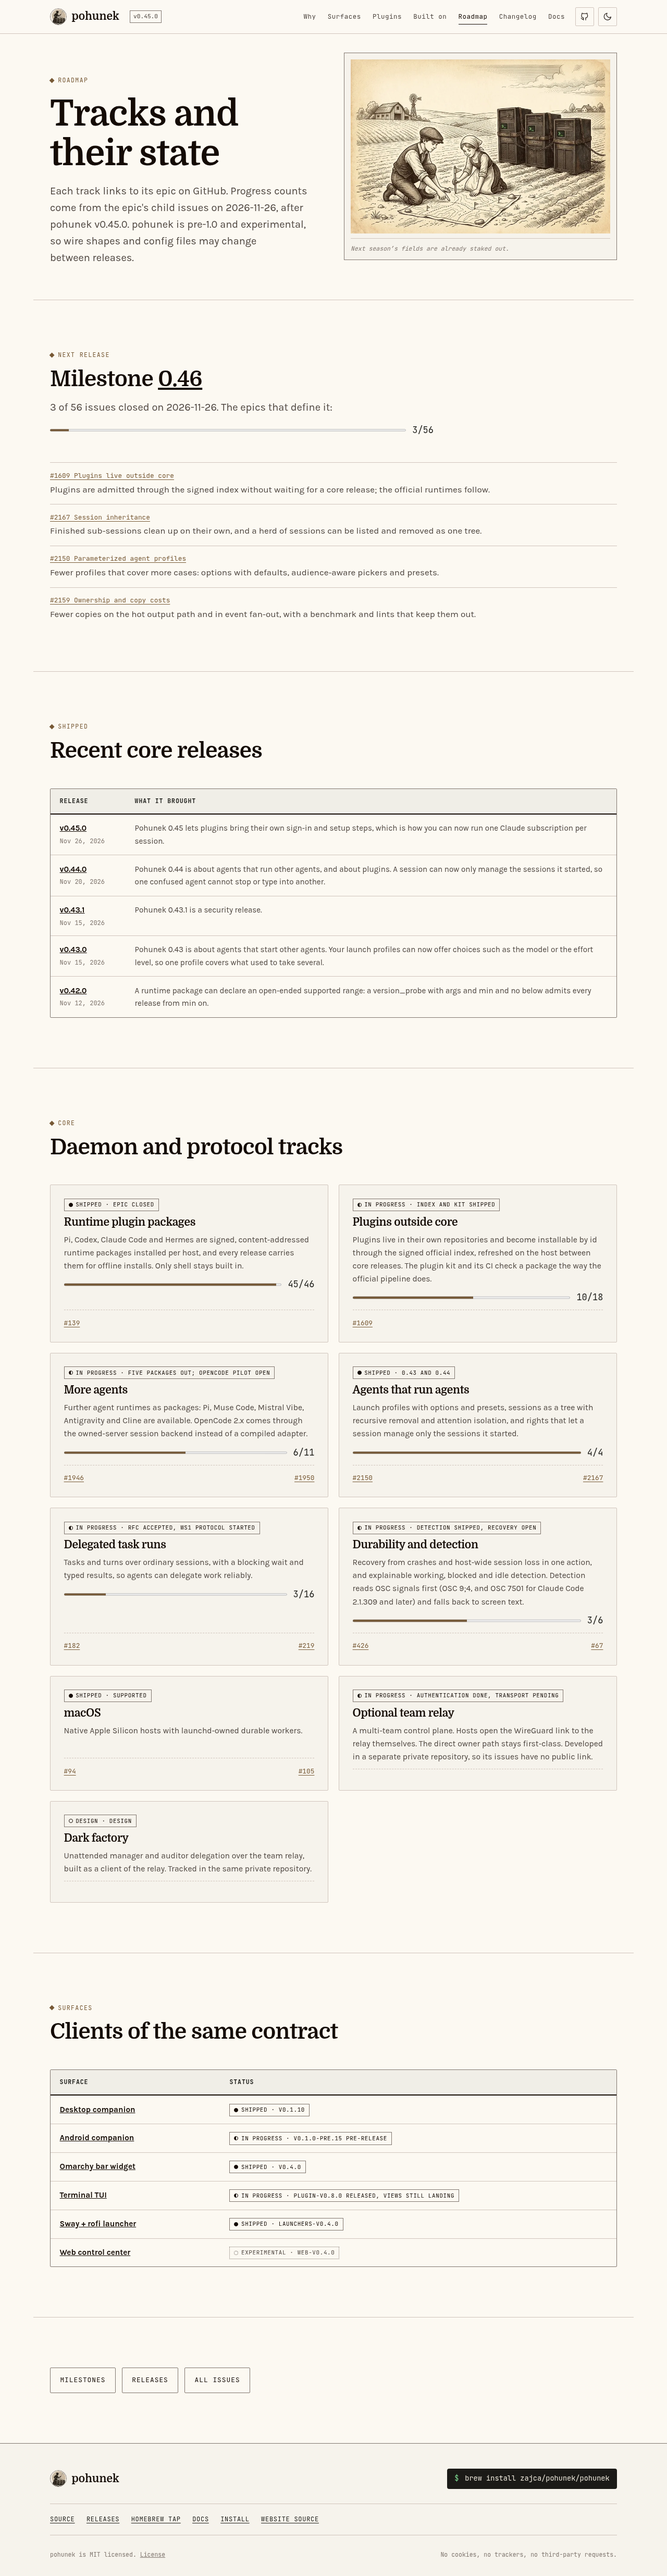
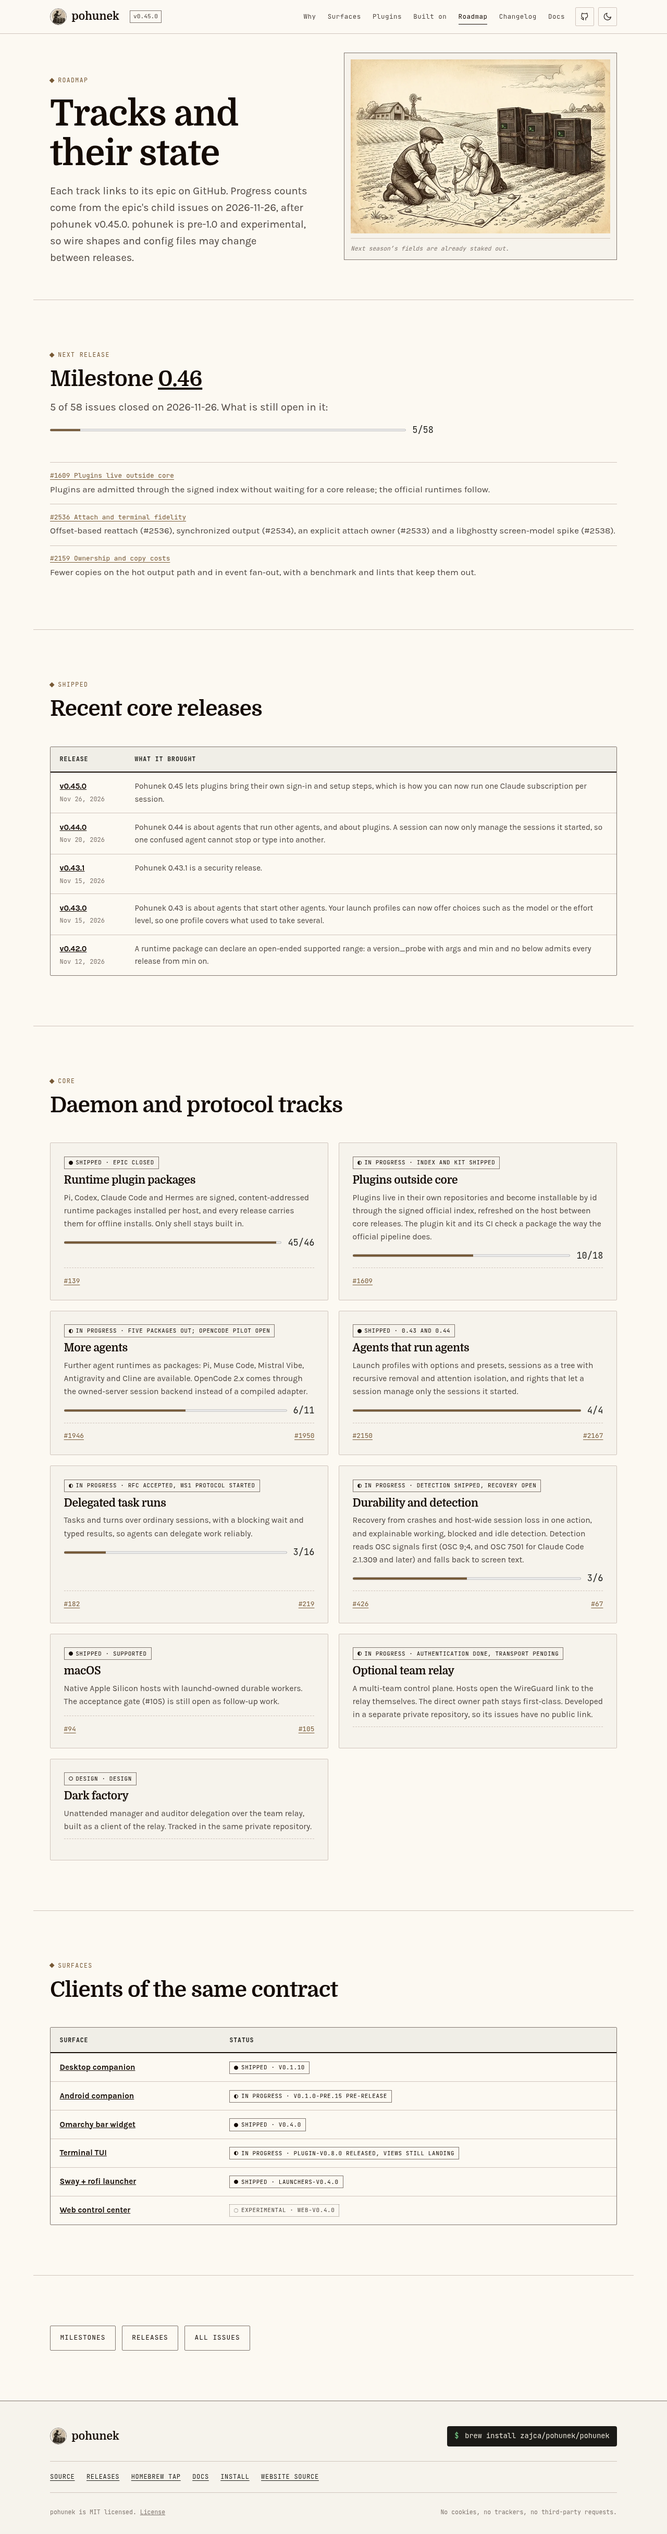
Address review: open epics only, core-aware agent list, README rows
The milestone block lists only what is still open and counts are refreshed
from GitHub. The agent list drops index runtimes the bundled set already
holds and runtimes whose core range excludes the pinned core. A malformed
URL fragment no longer stops the changelog anchor handling.

diff --git a/src/data/landing.ts b/src/data/landing.ts
@@ -1,4 +1,6 @@
 import type { IconName } from '../components/icons';
+import { coreAdmits } from '../../scripts/lib/plugins';
+import { product } from './ecosystem';
 import { pendingPlugins, pluginIndex } from './plugins';
 import type { Status } from './status';
 
@@ -15,6 +17,8 @@ interface AgentStep {
 
 interface Agent {
 	name: string;
+	/** Runtime id, set where the list must not show the same runtime twice. */
+	runtime?: string;
 	status: Status;
 	note: string;
 }
@@ -73,12 +77,15 @@ const agentSteps: AgentStep[] = [
 
 /** The official runtime packages every core release ships and installs offline, plus the built-in shell. */
 const bundledAgents: Agent[] = [
-	{ name: 'Codex', status: 'shipped', note: 'official' },
-	{ name: 'Claude Code', status: 'shipped', note: 'official' },
-	{ name: 'Hermes', status: 'shipped', note: 'official' },
-	{ name: 'Pi', status: 'shipped', note: 'official' },
-	{ name: 'shell', status: 'shipped', note: 'built in' },
+	{ name: 'Codex', runtime: 'codex', status: 'shipped', note: 'official' },
+	{ name: 'Claude Code', runtime: 'claude', status: 'shipped', note: 'official' },
+	{ name: 'Hermes', runtime: 'hermes', status: 'shipped', note: 'official' },
+	{ name: 'Pi', runtime: 'pi', status: 'shipped', note: 'official' },
+	{ name: 'shell', runtime: 'shell', status: 'shipped', note: 'built in' },
 ];
+
+const bundledRuntimes = new Set(bundledAgents.map((agent) => agent.runtime));
+const pinnedCore = product('pohunek').version;
 
 /** Agents without a package or an adapter yet. */
 const plannedAgents: Agent[] = [{ name: 'OpenCode', status: 'planned', note: '2.x' }];
@@ -89,7 +96,9 @@ const plannedAgents: Agent[] = [{ name: 'OpenCode', status: 'planned', note: '2.
  */
 const agents: Agent[] = [
 	...bundledAgents,
-	...pluginIndex.runtime.map((plugin): Agent => ({ name: plugin.name, status: 'shipped', note: 'plugin' })),
+	...pluginIndex.runtime
+		.filter((plugin) => !bundledRuntimes.has(plugin.runtimeId ?? '') && coreAdmits(plugin.core, pinnedCore))
+		.map((plugin): Agent => ({ name: plugin.name, status: 'shipped', note: 'plugin' })),
 	...pendingPlugins.map((plugin): Agent => ({ name: plugin.name, status: 'in-progress', note: 'plugin, pending' })),
 	...plannedAgents,
 ];

diff --git a/src/data/roadmap.ts b/src/data/roadmap.ts
@@ -22,7 +22,7 @@ export interface RoadmapMilestone {
 	number: number;
 	title: string;
 	progress: { done: number; total: number };
-	/** Epics of the milestone, with the outcome each one delivers. */
+	/** Open epics and work areas of the milestone, with the outcome each one delivers; closed epics belong to the tracks. */
 	epics: readonly { issue: number; title: string; outcome: string }[];
 }
 
@@ -38,7 +38,7 @@ export const roadmapRelease = 'v0.45.0';
 export const nextMilestone: RoadmapMilestone = {
 	number: 21,
 	title: '0.46',
-	progress: { done: 3, total: 56 },
+	progress: { done: 5, total: 58 },
 	epics: [
 		{
 			issue: 1609,
@@ -46,14 +46,10 @@ export const nextMilestone: RoadmapMilestone = {
 			outcome: 'Plugins are admitted through the signed index without waiting for a core release; the official runtimes follow.',
 		},
 		{
-			issue: 2167,
-			title: 'Session inheritance',
-			outcome: 'Finished sub-sessions clean up on their own, and a herd of sessions can be listed and removed as one tree.',
-		},
-		{
-			issue: 2150,
-			title: 'Parameterized agent profiles',
-			outcome: 'Fewer profiles that cover more cases: options with defaults, audience-aware pickers and presets.',
+			issue: 2536,
+			title: 'Attach and terminal fidelity',
+			outcome:
+				'Offset-based reattach (#2536), synchronized output (#2534), an explicit attach owner (#2533) and a libghostty screen-model spike (#2538).',
 		},
 		{
 			issue: 2159,
@@ -115,7 +111,7 @@ export const roadmapTracks: readonly RoadmapTrack[] = [
 	},
 	{
 		title: 'macOS',
-		goal: 'Native Apple Silicon hosts with launchd-owned durable workers.',
+		goal: 'Native Apple Silicon hosts with launchd-owned durable workers. The acceptance gate (#105) is still open as follow-up work.',
 		status: 'shipped',
 		statusNote: 'supported',
 		issues: [{ number: 94 }, { number: 105 }],

diff --git a/scripts/lib/plugins.ts b/scripts/lib/plugins.ts
@@ -275,6 +275,33 @@ export function parsePluginSnapshot(raw: unknown, where: string): PluginSnapshot
   return { source, fetchedAt, document: root.document };
 }
 
+/**
+ * Whether an index entry's `core` range (comma-separated comparators such as `>=0.44.0, <0.45.0`)
+ * admits a core version. A comparator the function does not know admits nothing, so a plugin is
+ * never shown as available on a core the index does not state it for.
+ */
+export function coreAdmits(range: string, version: string): boolean {
+  return range.split(',').every((part) => {
+    const match = /^\s*(>=|<=|>|<|=)?\s*(\d+\.\d+\.\d+(?:-[0-9A-Za-z.-]+)?)\s*$/.exec(part);
+    if (match === null) {
+      return false;
+    }
+    const order = compareVersions(version, match[2]);
+    switch (match[1] ?? '=') {
+      case '>=':
+        return order >= 0;
+      case '<=':
+        return order <= 0;
+      case '>':
+        return order > 0;
+      case '<':
+        return order < 0;
+      default:
+        return order === 0;
+    }
+  });
+}
+
 /** Orders two release versions; a pre-release sorts before the stable release of the same X.Y.Z. */
 export function compareVersions(left: string, right: string): number {
   const split = (version: string): { numbers: number[]; pre: string | null } => {

diff --git a/tests/plugins.test.ts b/tests/plugins.test.ts
@@ -5,6 +5,7 @@ import { afterEach, describe, expect, test } from 'bun:test';
 import {
   buildPluginView,
   compareVersions,
+  coreAdmits,
   derivedName,
   newestEntries,
   parsePluginIndex,
@@ -469,6 +470,20 @@ describe('the committed snapshot', () => {
     expect(() =>
       parsePluginSnapshot({ source: 'https://example.test/index.json', fetched_at: 'yesterday', document: indexDocument() }, 'snapshot'),
     ).toThrow('fetched_at must be an ISO 8601 UTC timestamp');
+  });
+});
+
+describe('coreAdmits', () => {
+  test('applies every comparator of the range', () => {
+    expect(coreAdmits('>=0.44.0', '0.45.0')).toBe(true);
+    expect(coreAdmits('>=0.44.0, <0.45.0', '0.45.0')).toBe(false);
+    expect(coreAdmits('>=0.44.0, <0.45.0', '0.44.1')).toBe(true);
+    expect(coreAdmits('>=0.46.0', '0.45.0')).toBe(false);
+  });
+
+  test('admits nothing for a comparator it does not know', () => {
+    expect(coreAdmits('^0.44.0', '0.44.1')).toBe(false);
+    expect(coreAdmits('*', '0.44.1')).toBe(false);
   });
 });
 

diff --git a/README.md b/README.md
@@ -28,7 +28,7 @@ from GitHub Pages.
 | `scripts/follow-releases.ts` | Moves the pins to new releases and records their changelog |
 | `scripts/revert-products.ts` | Puts the products whose docs sync failed back on their base-commit pin and changelog (dependency-free) |
 | `releases.config.json` | Every ecosystem product: repository, tag prefix, pinned version, install assets |
-| `.github/assets/` | README hero of this repository |
+| `.github/assets/` | README hero of this repository and the screenshots of pull request #49 (`pr-roadmap-changelog/`) |
 
 The documentation is never edited here. `docs-sync.config.json` lists one
 source per product: `scripts/sync-docs.ts` takes its whitelisted files from the
@@ -121,8 +121,11 @@ GH_TOKEN="$(gh auth token)" bun run follow-releases --product web --version 0.3.
 ```
 
 `/changelog/` lists every release newest first, `/changelog/<product>/` one
-product, `/changelog.xml` is an Atom feed of the newest releases and
-`/changelog.txt` the whole changelog as Markdown for agents. Release bodies
+product. The newest release is open and older ones show a summary line that
+opens the notes; the `Full changelog` section of a release is collapsed inside
+them (`src/lib/release-sections.ts` splits the body). `/changelog.xml` is an
+Atom feed of the newest releases and `/changelog.txt` the whole changelog as
+Markdown for agents. Release bodies
 come from other repositories: raw HTML is dropped, links keep only http(s)
 targets and images become links.
 
